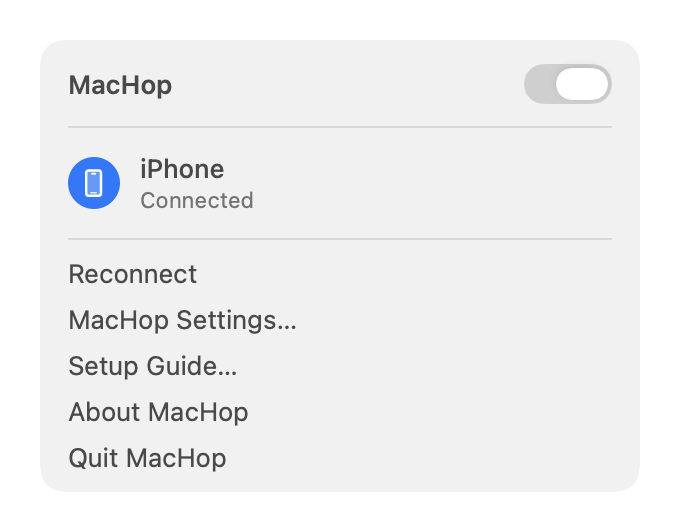
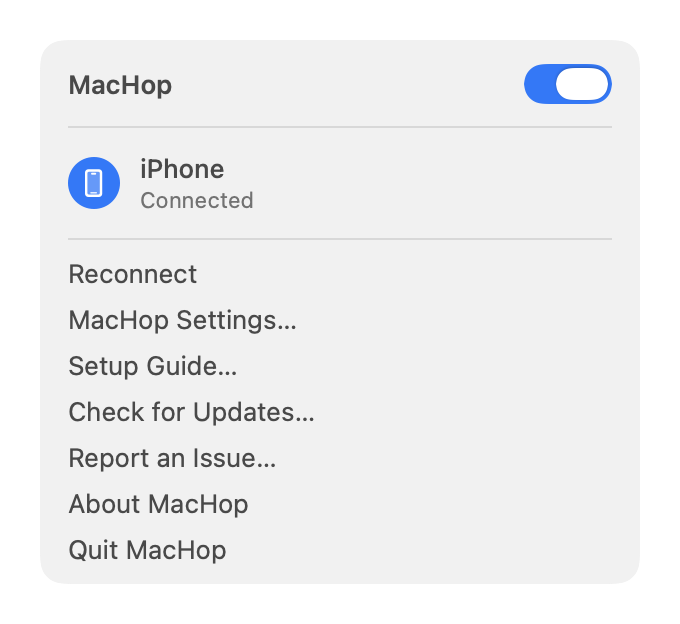
Report an Issue…, version 1.3.0, fresh screenshots
Report an Issue copies the diagnostics report and opens a new GitHub issue
with a short template; the report goes on the clipboard, never in the
address, so nothing leaves the Mac unless the user pastes and submits it.

diff --git a/Sources/MacHopApp/UI/MenuBarController.swift b/Sources/MacHopApp/UI/MenuBarController.swift
@@ -88,6 +88,7 @@ final class MenuBarController: NSObject, NSMenuDelegate {
         add("Setup Guide…", #selector(showGuide), to: menu)
         add("Check for Updates…", #selector(checkForUpdates), to: menu)
         menu.addItem(.separator())
+        add("Report an Issue…", #selector(reportIssue), to: menu)
         add("About MacHop", #selector(showAbout), to: menu)
         add("Quit MacHop", #selector(quit), key: "q", to: menu)
     }
@@ -127,6 +128,28 @@ final class MenuBarController: NSObject, NSMenuDelegate {
     @objc private func checkForUpdates() {
         NSWorkspace.shared.open(URL(string: "https://github.com/1benwheeler/MacHop/releases/latest")!)
     }
+
+    /// Copies the diagnostics report and opens a new GitHub issue with a short template.
+    /// The report goes on the clipboard, not in the address, so nothing leaves the Mac
+    /// unless the user pastes it and submits.
+    @objc private func reportIssue() {
+        Diagnostics.copy(model)
+        var issue = URLComponents(string: "https://github.com/1benwheeler/MacHop/issues/new")!
+        issue.queryItems = [URLQueryItem(name: "body", value: Self.issueTemplate)]
+        if let url = issue.url { NSWorkspace.shared.open(url) }
+    }
+
+    private static let issueTemplate = """
+        **What happened?**
+
+
+        **What did you expect to happen?**
+
+
+        **Diagnostics**
+        MacHop has copied them to your clipboard: paste them below. They never include names, keys or anything you've typed.
+
+        """
     @objc private func quit() { NSApp.terminate(nil) }
 }
 
@@ -273,8 +296,8 @@ extension MenuBarController {
             Divider().padding(.vertical, 5).padding(.horizontal, 14)
             MenuDeviceRow(model: model) {}
             Divider().padding(.vertical, 5).padding(.horizontal, 14)
-            ForEach(["Reconnect", "MacHop Settings…", "Setup Guide…", "Check for Updates…", "About MacHop", "Quit MacHop"],
-                    id: \.self) { title in
+            ForEach(["Reconnect", "MacHop Settings…", "Setup Guide…", "Check for Updates…", "Report an Issue…",
+                     "About MacHop", "Quit MacHop"], id: \.self) { title in
                 Text(title).font(.system(size: 13)).padding(.horizontal, 14).padding(.vertical, 3.5)
             }
         }

diff --git a/SECURITY.md b/SECURITY.md
@@ -10,7 +10,7 @@ Please report issues against the [latest release](https://github.com/1benwheeler
 
 ## How MacHop protects you
 
-- **No network access.** MacHop has no internet code and sends nothing anywhere except Bluetooth input to your own iPhone. There's no analytics or tracking. Check for Updates only opens the releases page in your browser.
+- **No network access.** MacHop has no internet code and sends nothing anywhere except Bluetooth input to your own iPhone. There's no analytics or tracking. Check for Updates and Report an Issue only open GitHub in your browser; Report an Issue copies the diagnostics report (no names, keys or text) for you to paste if you choose.
 - **Nothing you type is recorded.** Keystrokes are passed to the iPhone and never logged or stored.
 - **Bluetooth goes only to your iPhone,** over an encrypted, paired connection. Input reports are sent only to the iPhone you chose, and other devices can't read or change MacHop's input state.
 - **Password fields stay private.** While macOS Secure Input is active (for example, in a password field), MacHop won't send input to the iPhone.
